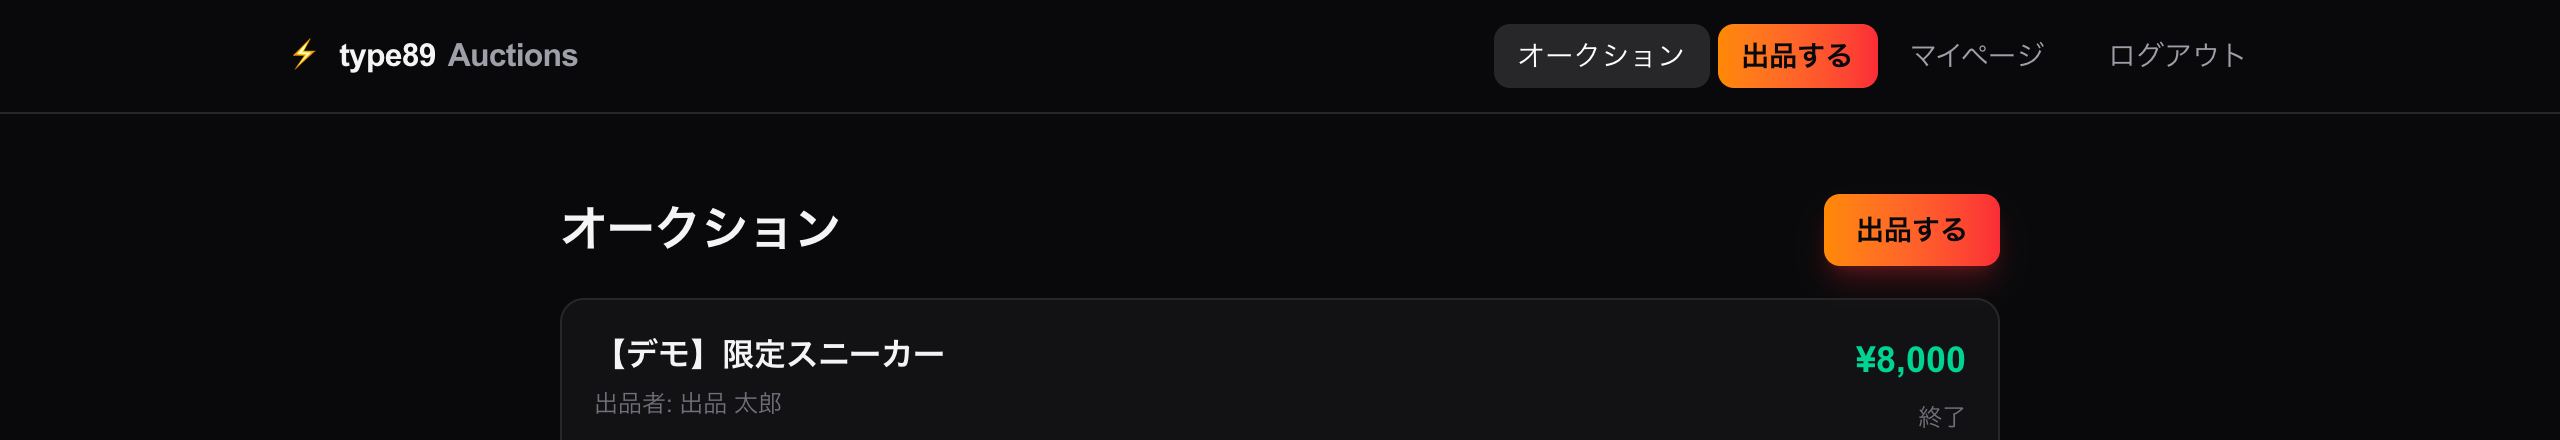
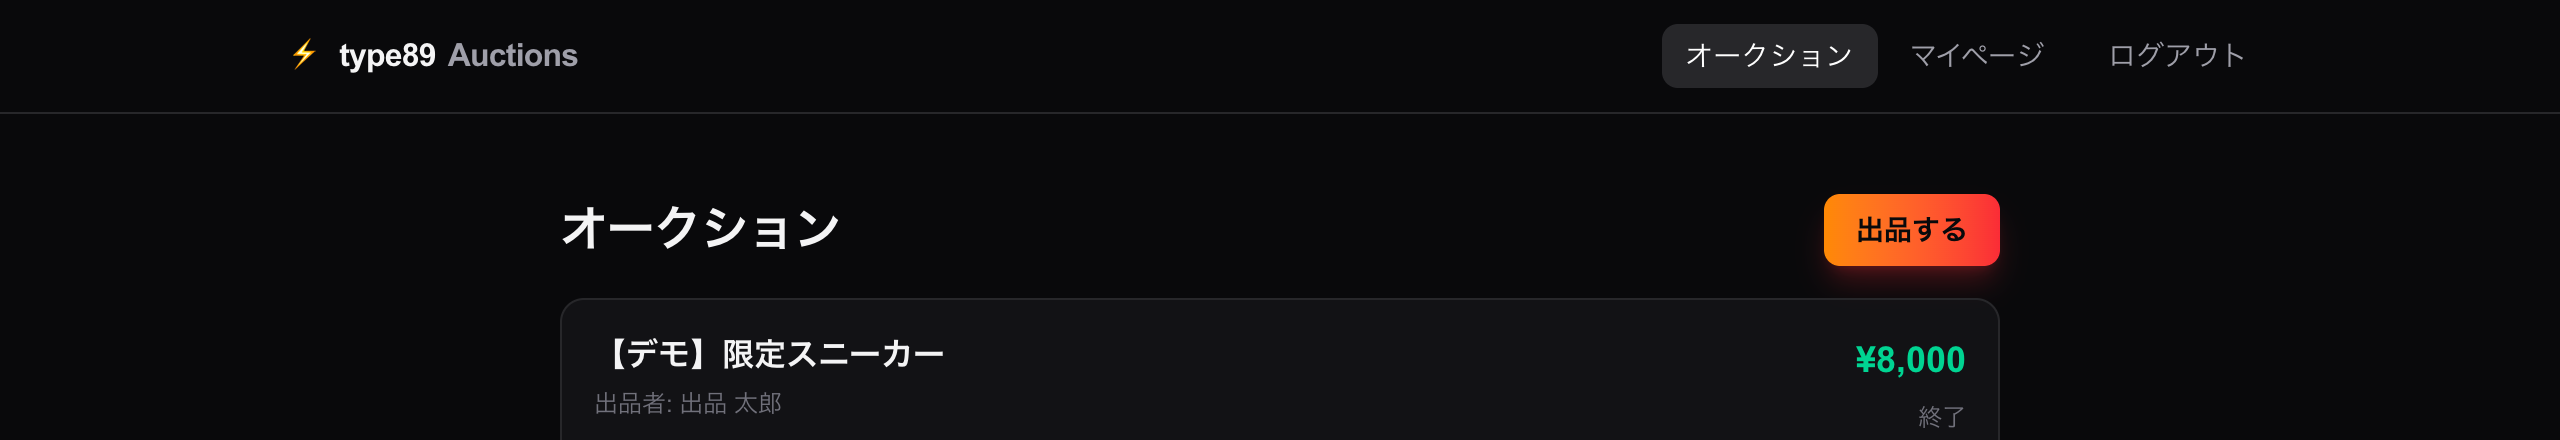
feat(ui): モバイルナビを浮遊ガラスピルに刷新し、出品をナビから撤去
- モバイルの下部ナビを、2026年らしいフローティング・ガラスピルに変更。
  下部中央に浮くガラス質バーで、アクティブ表示がバネのようにモーフ移動する。
- 出品ボタンをグローバルナビ（モバイル/デスクトップ両方）から撤去。
  出品導線は一覧ページの「出品する」ボタンに集約した。
- 下部の浮遊ナビに隠れないよう本文の余白を調整。

エビデンス（デスクトップ/モバイル）を更新。tsc / eslint / next build green。

Changed region(s): [[0.5625, 0.0295, 0.75, 0.2068]]

diff --git a/frontend/components/SiteHeader.tsx b/frontend/components/SiteHeader.tsx
@@ -7,14 +7,14 @@ import { logoutUser, useUser } from '@/lib/auth';
 
 type Tab = { href: string; label: string; icon: ReactNode };
 
+// 浮遊ピルの1タブ幅 (px)。インジケータの移動量に使う。
+const ITEM = 64;
+
 const IconHome = (
   <svg viewBox="0 0 24 24" fill="none" stroke="currentColor" strokeWidth="2" strokeLinecap="round" strokeLinejoin="round"><path d="M3 10.5 12 3l9 7.5" /><path d="M5 9.5V21h14V9.5" /></svg>
 );
 const IconTag = (
   <svg viewBox="0 0 24 24" fill="none" stroke="currentColor" strokeWidth="2" strokeLinecap="round" strokeLinejoin="round"><path d="M3 12V4h8l10 10-8 8L3 12Z" /><circle cx="7.5" cy="7.5" r="1.5" /></svg>
-);
-const IconPlus = (
-  <svg viewBox="0 0 24 24" fill="none" stroke="currentColor" strokeWidth="2" strokeLinecap="round" strokeLinejoin="round"><circle cx="12" cy="12" r="9" /><path d="M12 8v8M8 12h8" /></svg>
 );
 const IconUser = (
   <svg viewBox="0 0 24 24" fill="none" stroke="currentColor" strokeWidth="2" strokeLinecap="round" strokeLinejoin="round"><circle cx="12" cy="8" r="4" /><path d="M4 20c0-3.3 3.6-5.5 8-5.5s8 2.2 8 5.5" /></svg>
@@ -25,16 +25,15 @@ const IconLogin = (
 
 /**
  * 全ページ共通ナビ。
- * デスクトップ: 上部の水平ヘッダー。
- * モバイル: 画面下部のタブバー (親指で届く一次ナビ)。ハンバーガーは使わない。
- * 認証状態 (useUser) でメニューを出し分ける。
+ * デスクトップ: 上部ヘッダー。モバイル: 画面下部に浮く「フローティング・ガラスピル」。
+ * アクティブ表示はインジケータがモーフ移動する。出品はナビに常設せず、
+ * 一覧ページの「出品する」ボタンから導線を張る。
  */
 export function SiteHeader() {
   const pathname = usePathname();
   const router = useRouter();
   const { auth, refresh } = useUser();
 
-  // 管理画面は別系統の認証なので、このユーザー向けナビは出さない。
   if (pathname?.startsWith('/admin')) {
     return null;
   }
@@ -44,23 +43,20 @@ export function SiteHeader() {
   const tabs: Tab[] = [
     { href: '/', label: 'ホーム', icon: IconHome },
     { href: '/auctions', label: 'オークション', icon: IconTag },
-    ...(isAuthed
-      ? [
-          { href: '/auctions/new', label: '出品', icon: IconPlus },
-          { href: '/me', label: 'マイページ', icon: IconUser },
-        ]
-      : [{ href: '/login', label: 'ログイン', icon: IconLogin }]),
+    isAuthed
+      ? { href: '/me', label: 'マイページ', icon: IconUser }
+      : { href: '/login', label: 'ログイン', icon: IconLogin },
   ];
 
-  const isActive = (href: string): boolean => {
-    if (href === '/') return pathname === '/';
-    if (href === '/auctions') {
-      return pathname === '/auctions' || pathname?.startsWith('/auctions/') === true
-        ? pathname !== '/auctions/new'
-        : false;
-    }
-    return pathname === href;
-  };
+  const matchIndex = (): number =>
+    tabs.findIndex((t) =>
+      t.href === '/'
+        ? pathname === '/'
+        : t.href === '/auctions'
+          ? pathname === '/auctions' || pathname?.startsWith('/auctions/') === true
+          : pathname === t.href,
+    );
+  const activeIndex = matchIndex();
 
   const handleLogout = async () => {
     await logoutUser();
@@ -70,7 +66,7 @@ export function SiteHeader() {
 
   return (
     <>
-      {/* 上部ヘッダー: ブランドは全幅、ナビリンクはデスクトップのみ */}
+      {/* デスクトップ: 上部ヘッダー (出品は常設しない) */}
       <header className="sticky top-0 z-40 border-b border-zinc-800 bg-zinc-950/85 text-zinc-100 backdrop-blur supports-[backdrop-filter]:bg-zinc-950/70">
         <div className="mx-auto flex h-14 w-full max-w-5xl items-center justify-between px-4">
           <Link href="/" className="flex items-center gap-1.5 font-extrabold tracking-tight">
@@ -81,29 +77,25 @@ export function SiteHeader() {
           <nav className="hidden items-center gap-1 md:flex">
             {tabs
               .filter((t) => t.href !== '/')
-              .map((tab) =>
-                tab.href === '/auctions/new' ? (
-                  <Link
-                    key={tab.href}
-                    href={tab.href}
-                    className="rounded-lg bg-gradient-to-r from-orange-400 to-red-500 px-3 py-1.5 text-sm font-bold text-zinc-950"
-                  >
-                    出品する
-                  </Link>
-                ) : (
+              .map((tab) => {
+                const active =
+                  tab.href === '/auctions'
+                    ? pathname === '/auctions' || pathname?.startsWith('/auctions/') === true
+                    : pathname === tab.href;
+                return (
                   <Link
                     key={tab.href}
                     href={tab.href}
                     className={
-                      isActive(tab.href)
+                      active
                         ? 'rounded-lg bg-zinc-800 px-3 py-1.5 text-sm font-medium text-white'
                         : 'rounded-lg px-3 py-1.5 text-sm font-medium text-zinc-400 hover:bg-zinc-900 hover:text-white'
                     }
                   >
                     {tab.label}
                   </Link>
-                ),
-              )}
+                );
+              })}
             {isAuthed && (
               <button
                 type="button"
@@ -117,28 +109,40 @@ export function SiteHeader() {
         </div>
       </header>
 
-      {/* 下部タブバー: モバイルのみ */}
+      {/* モバイル: フローティング・ガラスピル */}
       <nav
         aria-label="メインナビ"
-        className="fixed inset-x-0 bottom-0 z-40 grid border-t border-zinc-800 bg-zinc-950/95 pb-[env(safe-area-inset-bottom)] text-zinc-400 backdrop-blur md:hidden"
-        style={{ gridTemplateColumns: `repeat(${tabs.length}, minmax(0, 1fr))` }}
+        className="fixed bottom-[calc(env(safe-area-inset-bottom)+16px)] left-1/2 z-40 -translate-x-1/2 md:hidden"
       >
-        {tabs.map((tab) => {
-          const active = isActive(tab.href);
-          return (
+        <div
+          className="relative grid rounded-full border border-white/10 bg-zinc-900/60 p-1.5 shadow-xl shadow-black/40 backdrop-blur-xl"
+          style={{ gridTemplateColumns: `repeat(${tabs.length}, ${ITEM}px)` }}
+        >
+          {/* モーフ移動するアクティブインジケータ */}
+          <span
+            aria-hidden="true"
+            className="absolute left-1.5 top-1.5 rounded-full bg-gradient-to-r from-orange-400 to-red-500 transition-transform duration-500 ease-[cubic-bezier(.34,1.56,.64,1)] motion-reduce:transition-none"
+            style={{
+              width: ITEM,
+              height: 46,
+              transform: `translateX(${Math.max(activeIndex, 0) * ITEM}px)`,
+              opacity: activeIndex >= 0 ? 1 : 0,
+            }}
+          />
+          {tabs.map((tab, i) => (
             <Link
               key={tab.href}
               href={tab.href}
-              aria-current={active ? 'page' : undefined}
-              className={`flex flex-col items-center gap-0.5 py-2 text-[11px] font-medium ${
-                active ? 'text-amber-400' : 'text-zinc-400'
+              aria-current={i === activeIndex ? 'page' : undefined}
+              className={`relative z-10 flex h-[46px] items-center justify-center transition-colors ${
+                i === activeIndex ? 'text-zinc-950' : 'text-zinc-400'
               }`}
+              title={tab.label}
             >
               <span className="h-6 w-6">{tab.icon}</span>
-              {tab.label}
             </Link>
-          );
-        })}
+          ))}
+        </div>
       </nav>
     </>
   );

diff --git a/frontend/app/layout.tsx b/frontend/app/layout.tsx
@@ -30,8 +30,8 @@ export default function RootLayout({
     >
       <body className="min-h-full flex flex-col">
         <SiteHeader />
-        {/* モバイルは下部タブバーに隠れないよう余白を確保 */}
-        <div className="flex flex-1 flex-col pb-16 md:pb-0">{children}</div>
+        {/* モバイルは下部の浮遊ナビに隠れないよう余白を確保 */}
+        <div className="flex flex-1 flex-col pb-28 md:pb-0">{children}</div>
       </body>
     </html>
   );
